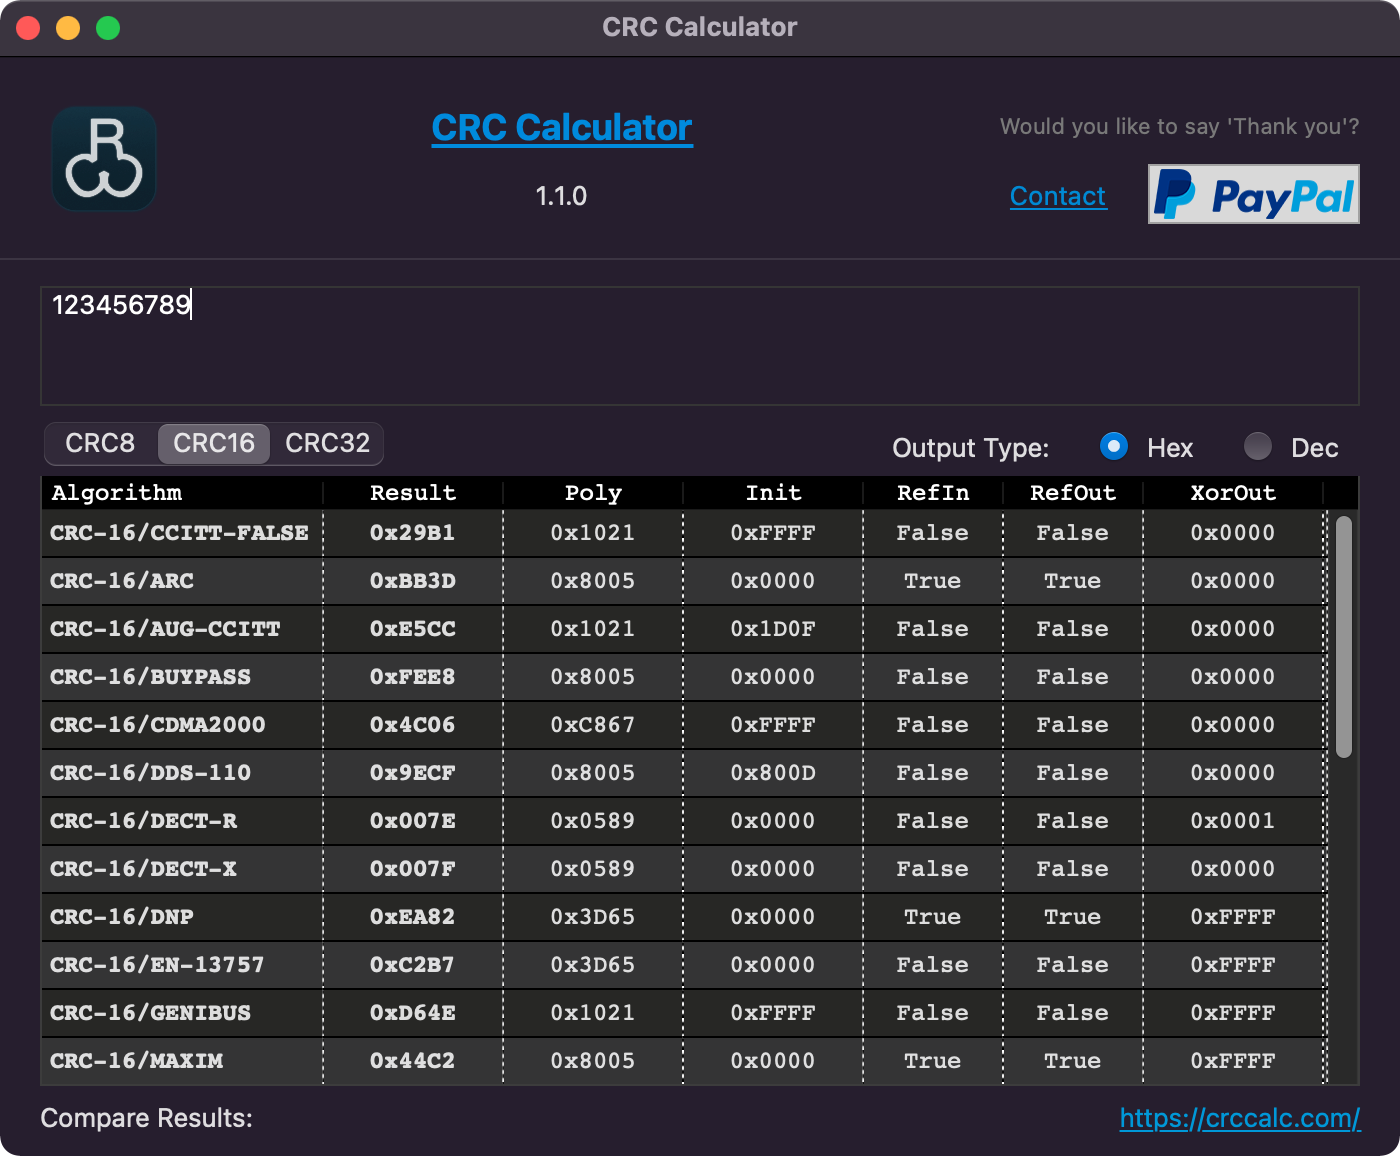
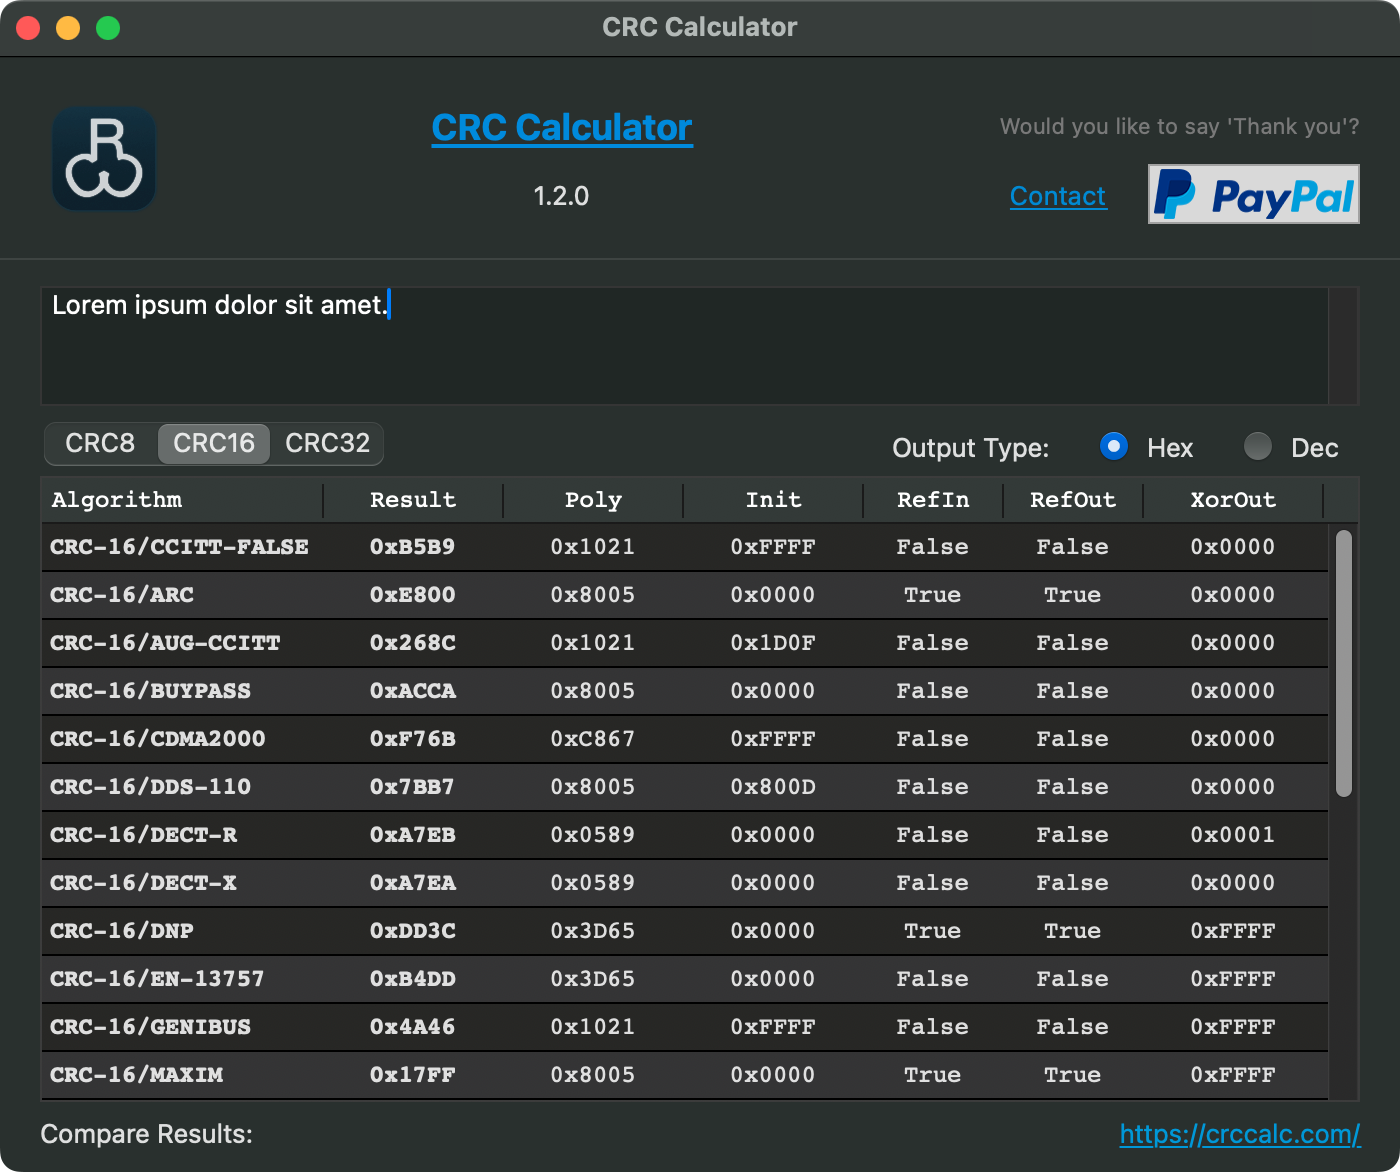
Update CRCCalculatorWeb (#5)
* CRCCalculatorWeb: Xojo 2023r3

* CRCCalculatorWeb: Dockerfile with Ubuntu 22.04

* Update README.md

* CRCCalculatorDektop 1.2.0

* CRCCalculatorWeb 1.2.0

* ScreenShots 1.2.0

diff --git a/README.md b/README.md
@@ -6,7 +6,7 @@ Cyclic Redundancy Check: CRC8, CRC16, CRC32
 
 ## Description
 This example Xojo project shows how CRC Calculations can be implemented in pure Xojo Code.
-Because CRC classes not available in the Xojo Framework, one has to either use a 3rd Party Plugin - or calculate the Algorithm(s) manually.
+Because CRC classes are not available in the Xojo Framework, one has to either use a 3rd Party Plugin - or calculate the Algorithm(s) manually.
 
 ### Cyclic Redundancy Check Algorithm
 This example is based on this documentation: [Understanding CRC](http://www.sunshine2k.de/articles/coding/crc/understanding_crc.html).  
@@ -26,24 +26,24 @@ Built Web application running on macOS:
 ### Requirements
 [Xojo](https://www.xojo.com/) is a rapid application development for Desktop, Web, Mobile & Raspberry Pi.  
 
-The Desktop application Xojo example project ```CRCCalculatorDesktop.xojo_project``` is using:
+The Desktop application Xojo example project `CRCCalculatorDesktop.xojo_project` is using:
 - Xojo 2018r4
 - API 1
 
-The Web application Xojo example project ```CRCCalculatorWeb.xojo_project``` is using:
-- Xojo 2021r3.1
+The Web application Xojo example project `CRCCalculatorWeb.xojo_project` is using:
+- Xojo 2023r3
 - API 2
 
 ### How to use in your own Xojo project?
 1. Copy/paste the required CRC Calculator Classes into your project
 2. Create an instance of the Class
-   - by using a predefined Algorithm: ```CRC16Calculator.CreateByType(CRC16Type.MODBUS)```
-   - or create a custom Calculator: ```New CRC16Calculator("CRC-16/GENIBUS", &h1021, &hffff, false, false, &hffff)```
-3. Get the result: ```myCRCCalculatorInstance.Result("1234567890")```
+   - by using a predefined Algorithm: `CRC16Calculator.CreateByType(CRC16Type.MODBUS)`
+   - or create a custom Calculator: `New CRC16Calculator("CRC-16/GENIBUS", &h1021, &hffff, false, false, &hffff)`
+3. Get the result: `myCRCCalculatorInstance.Result("1234567890")`
 
 ### Xojo Web App 2 Docker
 <a name="xojo2docker"></a>
-This repository contains [Documentation](docs/xojo2docker/Xojo2Docker.pdf) about [how to package a Xojo built Web Application in a Docker Image](docs/xojo2docker/Xojo2Docker.pdf). The Web application Xojo example project ```CRCCalculatorWeb.xojo_project``` includes a Post Build Script which automates the task of building the Docker Image of the web application.
+This repository contains [Documentation](docs/xojo2docker/Xojo2Docker.pdf) about [how to package a Xojo built Web Application in a Docker Image](docs/xojo2docker/Xojo2Docker.pdf). The Web application Xojo example project `CRCCalculatorWeb.xojo_project` includes a Post Build Script which automates the task of building the Docker Image of the web application.
 
 ## About
 Juerg Otter is a long term user of Xojo and working for [CM Informatik AG](https://cmiag.ch/). Their Application [CMI LehrerOffice](https://cmi-bildung.ch/) is a Xojo Design Award Winner 2018. In his leisure time Juerg provides some [bits and pieces for Xojo Developers](https://www.jo-tools.ch/).
